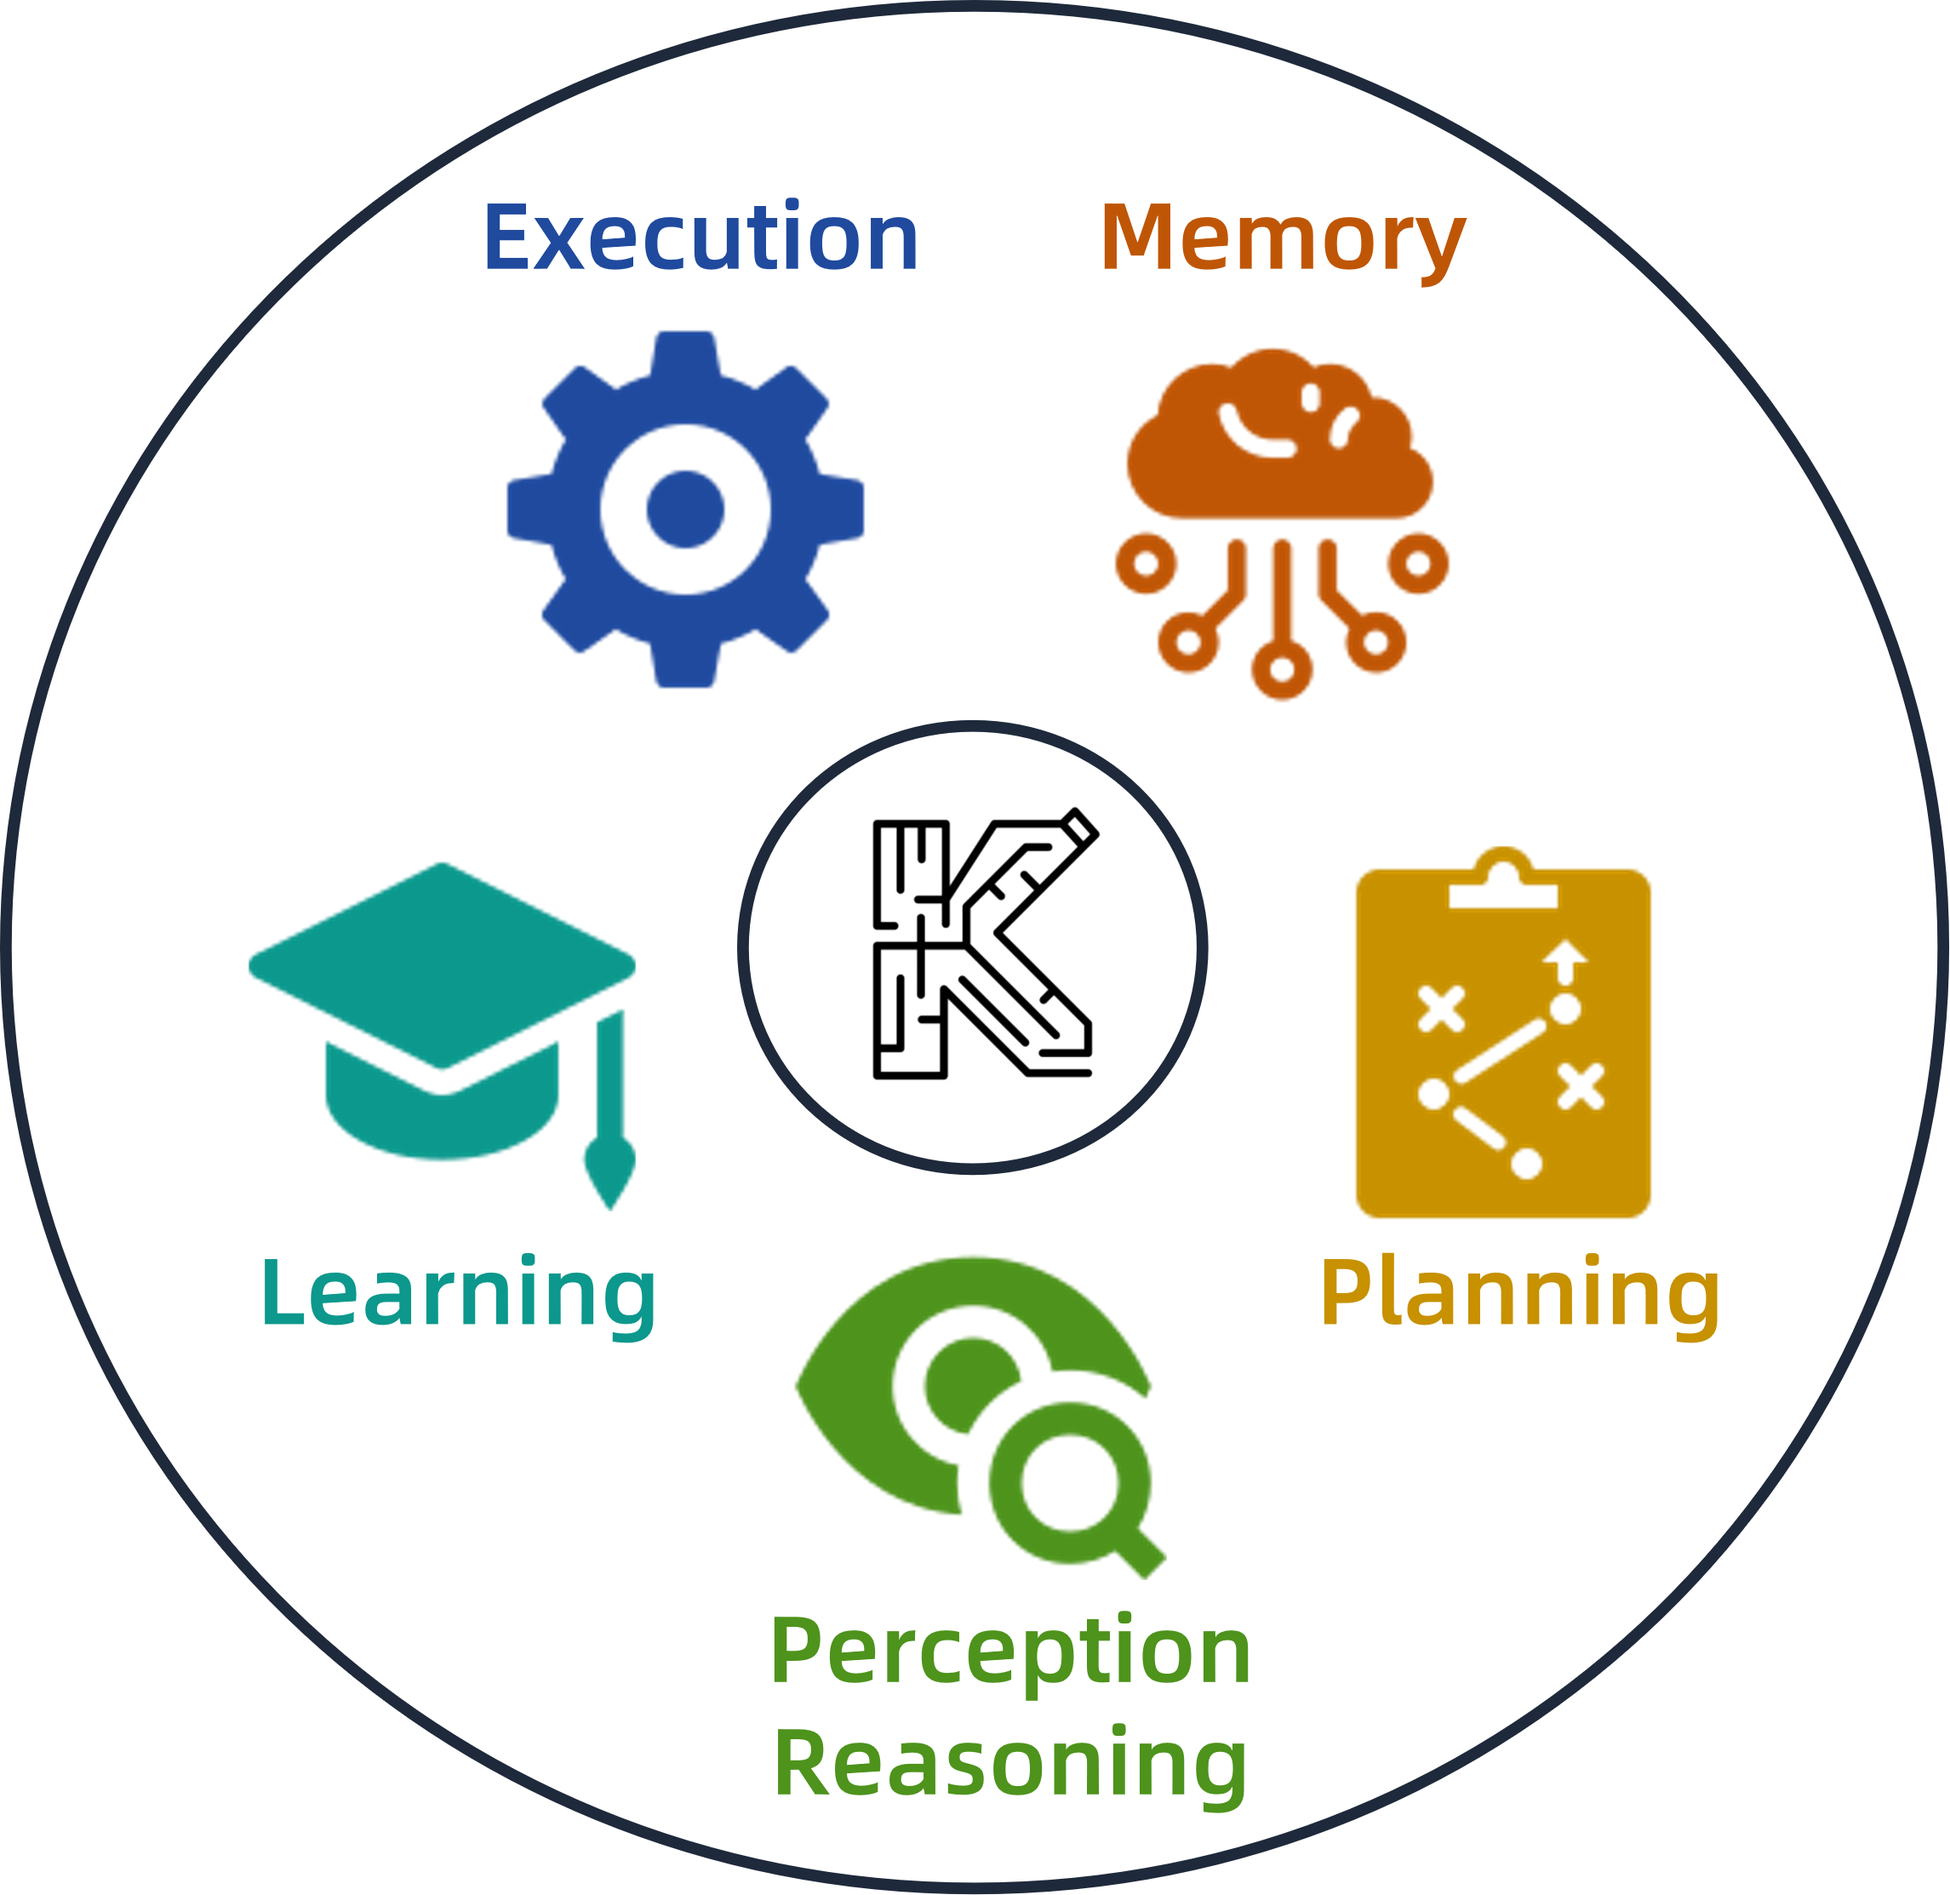
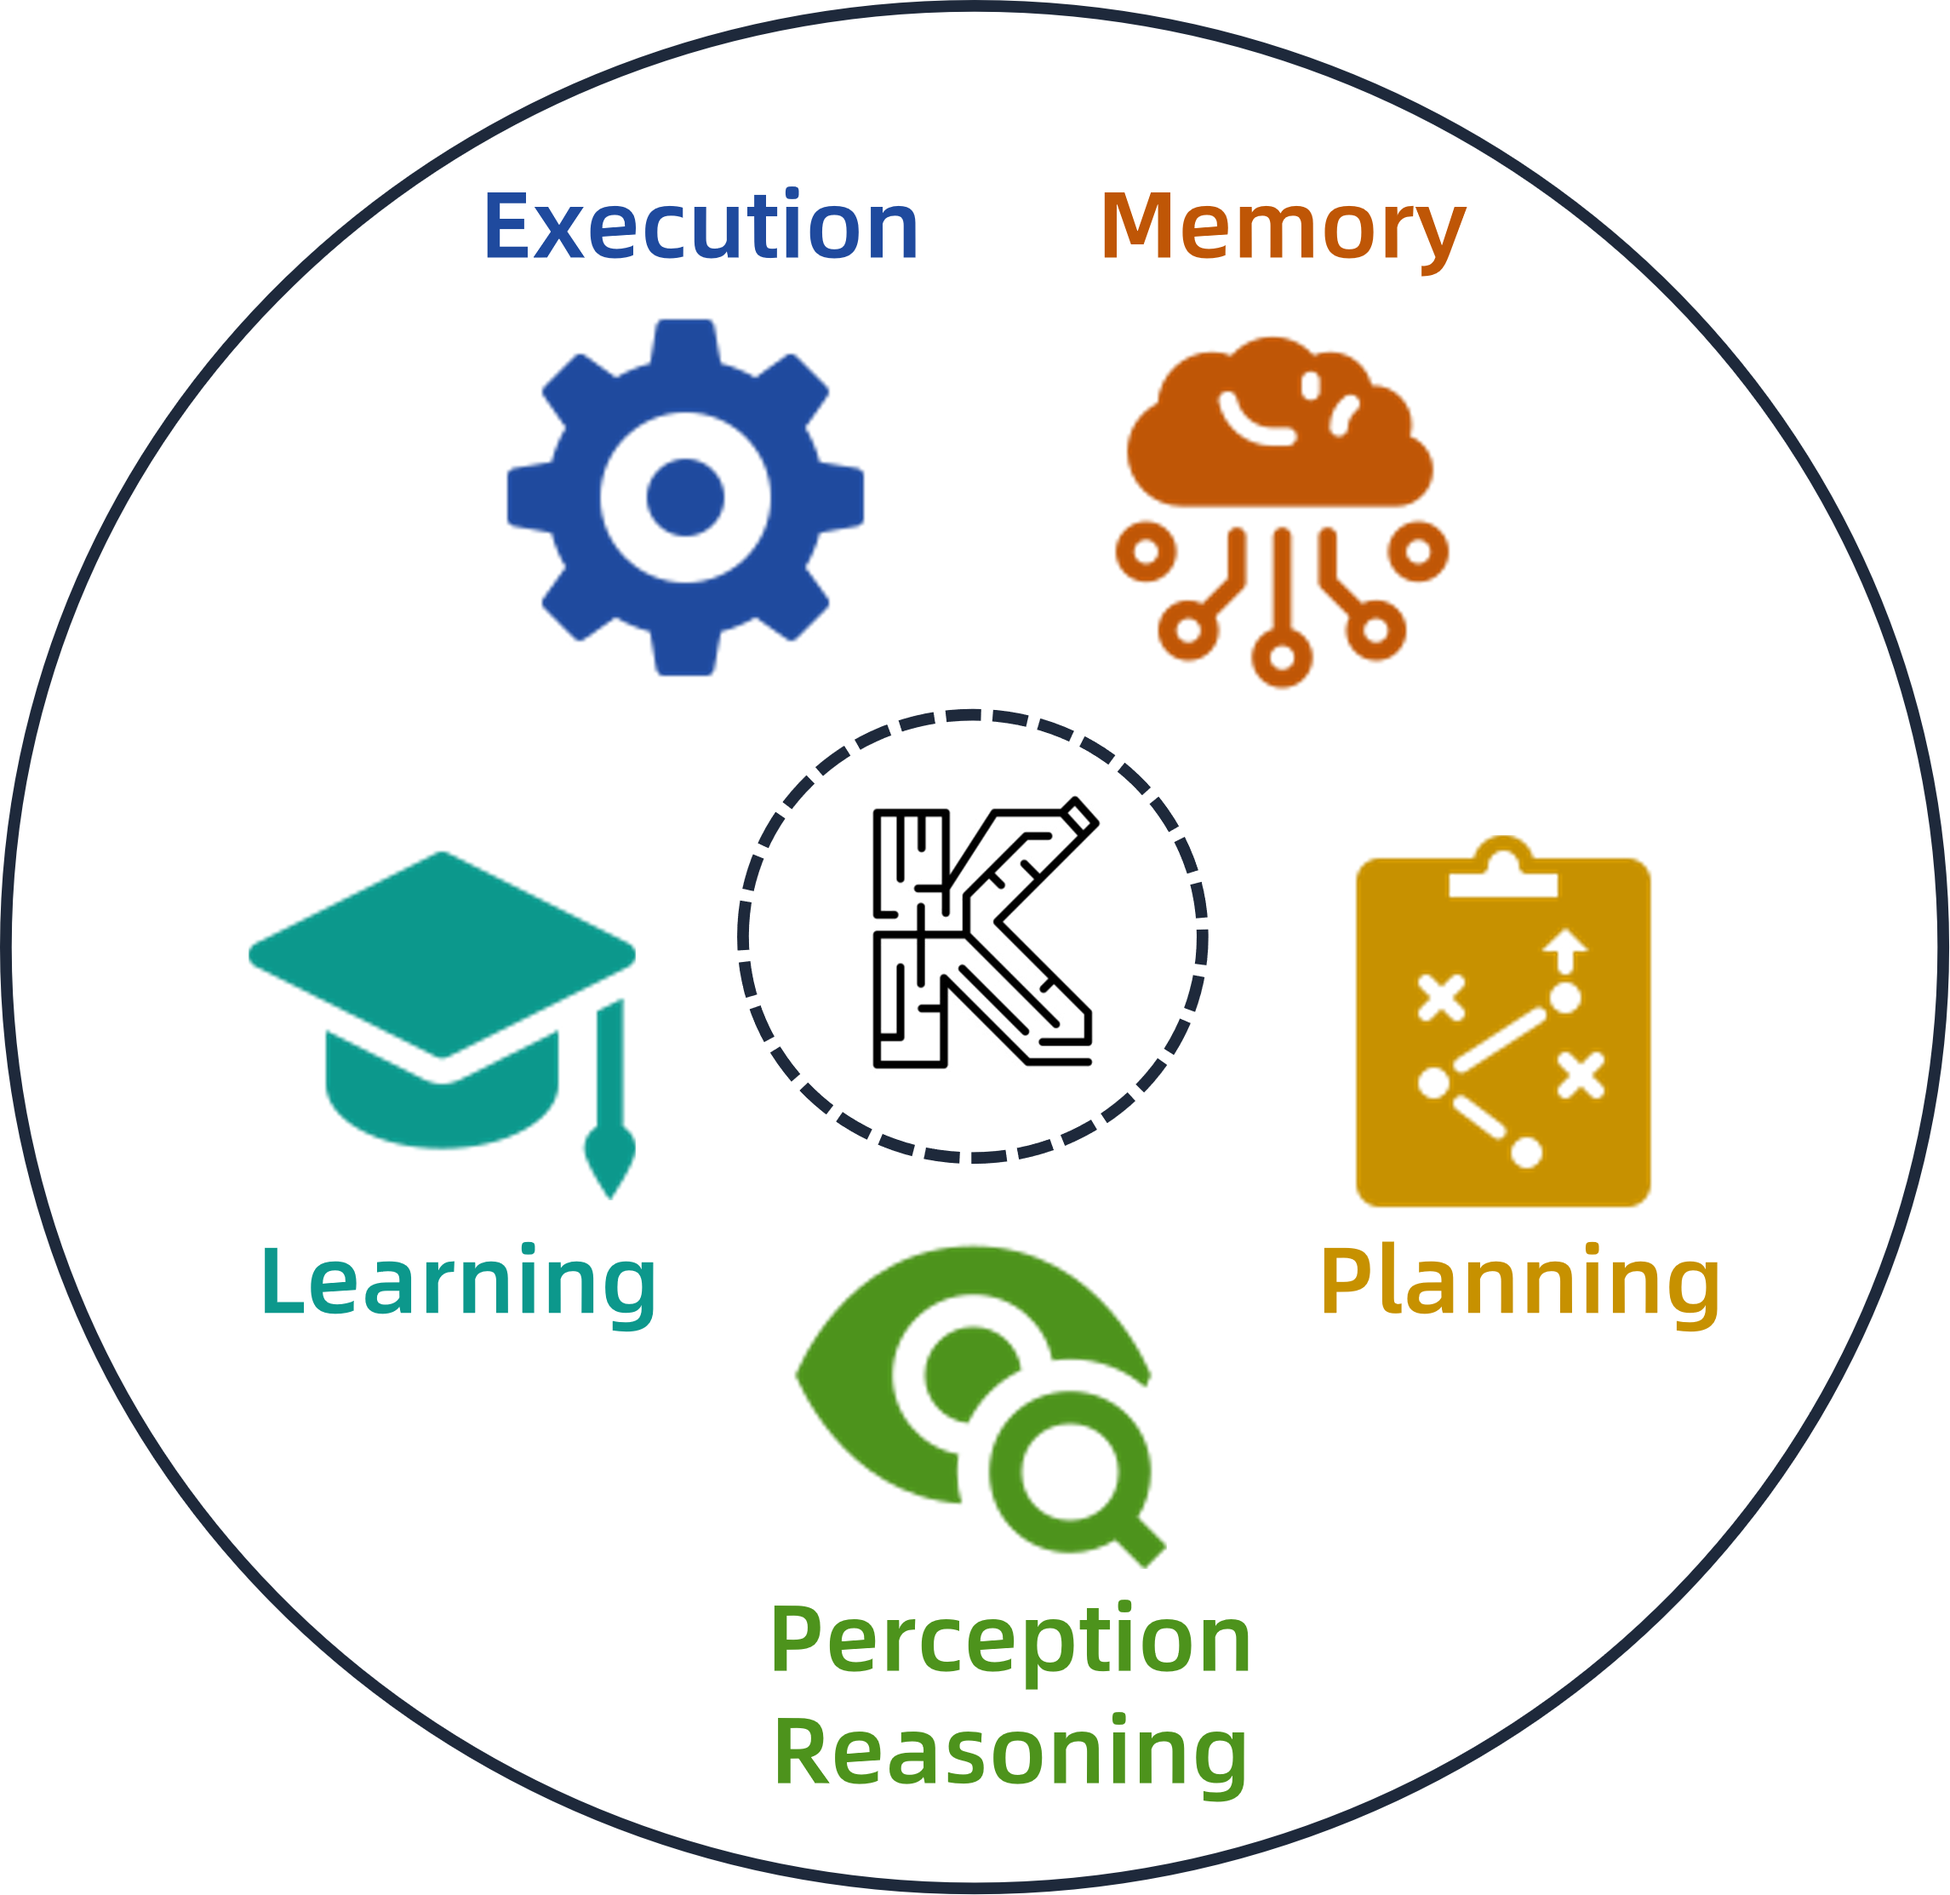
readme

diff --git a/README.md b/README.md
@@ -24,9 +24,9 @@ Multimodal Large Language Models (MLLMs) combine the linguistic strengths of LLM
 | ![PL](./gifs/placement.gif) | Placement (PL) | In PL task, the agent is required to place the item in the opposite position based on the given goal. For instance, if the rule states*"place the tortoise on the north side of the toy horse"*, the agent actually needs to place it on the*"south"* side. | Learning + Perception Reasoning |
 |  ![CL](./gifs/counting.gif)  |    Counting (CO)    |                                                             In CO task, the scene contains several piles of items, with quantities ranging from 1 to 3. At the start of the task, the agent is given a target number and then it must collect exactly that number of items.                                                             | Planning + Perception Reasoning |
 | ![DMA](./gifs/decode_maze.gif) | Decode Maze (DMA) | This task follows the same rules as the “Maze”, with an added challenge. The agent can no longer use a same-colored key to open a door. Instead, it must learn the “key-door” correspondence shown in the hint bar. | Learning + Planning |
-| ![MMA](./gifs/memory_maze.gif) | Memory Maze (Ma*) |                                                                                   This task follows the same rules as the "Maze", with an added challenge. Before the task begins, the agent is shown the location of the diamond, but once the task starts, the diamond in the scene will be hidden and several treasure chests will appear. To succeed, the agent must correctly open the chest containing the diamond.                                                                                   |  Memory + Planning  |
-| ![MDE](./gifs/memory_decode.gif) |  Memory Decode (DE*)  | This task follows the same rules as "Decode", with an added challenge. The agent must additionally remember the relationships indicated in the code table, which will be hidden once the task starts. |        Memory + Perception Reasoning        |
-| ![MFI](./gifs/memory_filling.gif) | Memory Filling (FI*) |                                                                  This task follows the same rules as "Filling", with an added challenge. The agent must additionally remember the target, which will disappear once the task starts.                                                                  |        Memory + Learning        |
+| ![MMA](./gifs/memory_maze.gif) | Memory Maze (MMA) |                                                                                   This task follows the same rules as the "Maze", with an added challenge. Before the task begins, the agent is shown the location of the diamond, but once the task starts, the diamond in the scene will be hidden and several treasure chests will appear. To succeed, the agent must correctly open the chest containing the diamond.                                                                                   |  Memory + Planning  |
+| ![MDE](./gifs/memory_decode.gif) |  Memory Decode (MDE)  | This task follows the same rules as "Decode", with an added challenge. The agent must additionally remember the relationships indicated in the code table, which will be hidden once the task starts. |        Memory + Perception Reasoning        |
+| ![MFI](./gifs/memory_filling.gif) | Memory Filling (MFI) |                                                                  This task follows the same rules as "Filling", with an added challenge. The agent must additionally remember the target, which will disappear once the task starts.                                                                  |        Memory + Learning        |
 
 ## Getting Started
 
